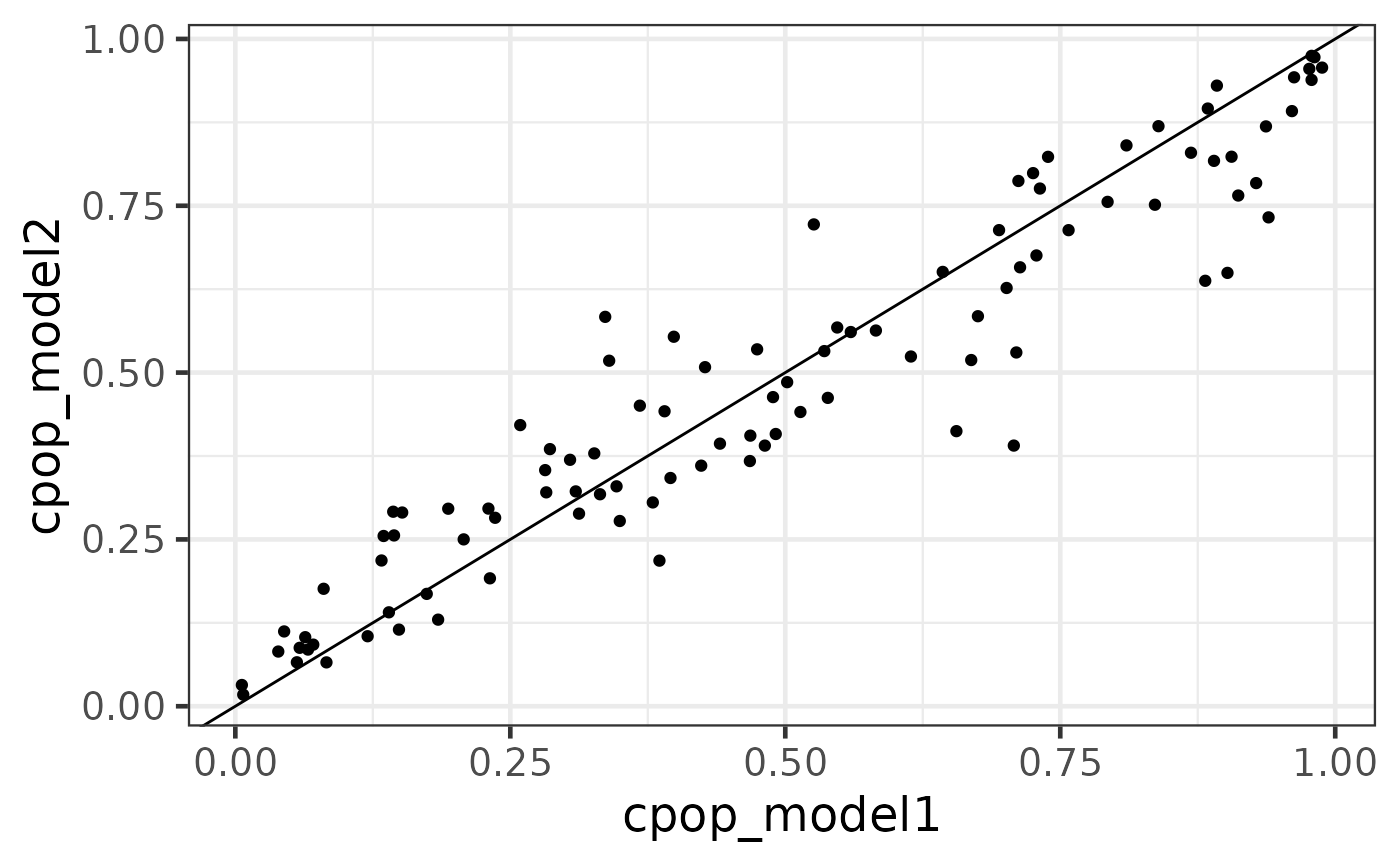
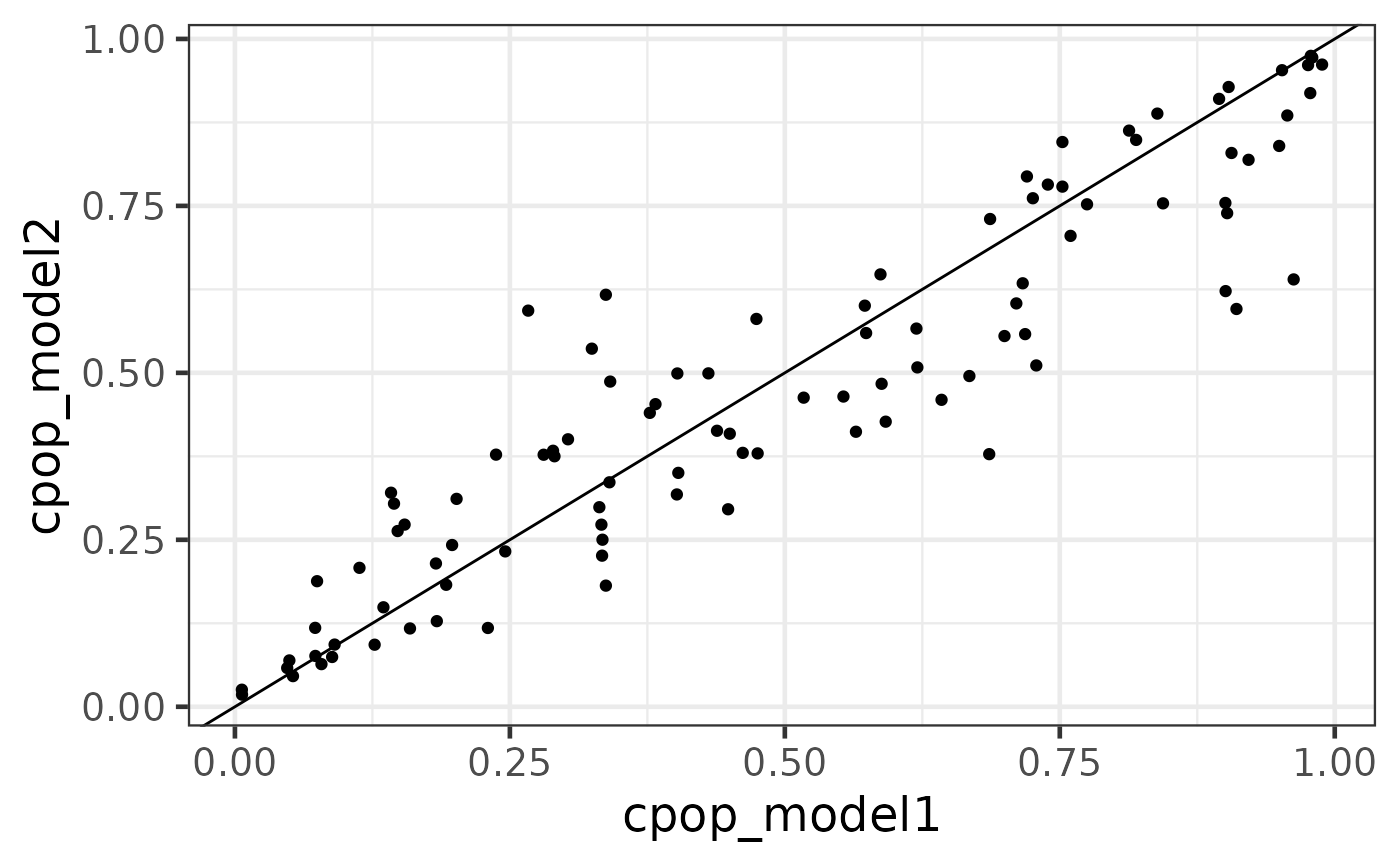
Built site for CPOP: 0.1.0@6629bfb

diff --git a/articles/CPOP.html b/articles/CPOP.html
@@ -33,7 +33,7 @@
       </button>
       <span class="navbar-brand">
         <a class="navbar-link" href="../index.html">CPOP</a>
-        <span class="version label label-default" data-toggle="tooltip" data-placement="bottom" title="">0.0.24</span>
+        <span class="version label label-default" data-toggle="tooltip" data-placement="bottom" title="">0.1.0</span>
       </span>
     </div>
 
@@ -161,21 +161,21 @@
 <pre><code><span class="co">## Fitting CPOP model using alpha = 1</span></code></pre>
 <pre><code><span class="co">## Based on previous alpha, 0 features are kept</span></code></pre>
 <pre><code><span class="co">## CPOP1 - Step 01: Number of selected features: 0 out of 190</span></code></pre>
-<pre><code><span class="co">## CPOP1 - Step 02: Number of selected features: 8 out of 190</span></code></pre>
+<pre><code><span class="co">## CPOP1 - Step 02: Number of selected features: 9 out of 190</span></code></pre>
 <pre><code><span class="co">## CPOP1 - Step 03: Number of selected features: 15 out of 190</span></code></pre>
 <pre><code><span class="co">## 10 features was reached.</span></code></pre>
 <pre><code><span class="co">## A total of 15 features were selected.</span></code></pre>
 <pre><code><span class="co">## Removing sources of collinearity gives 12 features.</span></code></pre>
 <pre><code><span class="co">## 10 features was reached.</span></code></pre>
 <pre><code><span class="co">## A total of 12 features were selected.</span></code></pre>
-<pre><code><span class="co">## CPOP2 - Sign: Step 01: Number of leftover features: 8 out of 12</span></code></pre>
+<pre><code><span class="co">## CPOP2 - Sign: Step 01: Number of leftover features: 10 out of 12</span></code></pre>
 <pre><code><span class="co">## The sign matrix between the two data:</span></code></pre>
 <pre><code><span class="co">##     </span>
 <span class="co">##      -1 0 1</span>
-<span class="co">##   -1  0 0 0</span>
+<span class="co">##   -1  0 0 1</span>
 <span class="co">##   0   0 0 0</span>
-<span class="co">##   1   4 0 0</span></code></pre>
-<pre><code><span class="co">## CPOP2 - Sign: Step 02: Number of leftover features: 8 out of 12</span>
+<span class="co">##   1   1 0 0</span></code></pre>
+<pre><code><span class="co">## CPOP2 - Sign: Step 02: Number of leftover features: 10 out of 12</span>
 <span class="co">## The sign matrix between the two data:</span></code></pre>
 <pre><code><span class="co">##     </span>
 <span class="co">##      -1 0 1</span>
@@ -198,17 +198,19 @@
 <p><img src="CPOP_files/figure-html/unnamed-chunk-5-1.png" width="700"></p>
 <pre><code><span class="co">## </span>
 <span class="co">## $data</span>
-<span class="co">## <span style="color: #949494;"># A tibble: 8 × 3</span></span>
-<span class="co">##   coef_name  coef1     coef2</span>
-<span class="co">##   <span style="color: #949494; font-style: italic;">&lt;fct&gt;</span>      <span style="color: #949494; font-style: italic;">&lt;dbl&gt;</span>     <span style="color: #949494; font-style: italic;">&lt;dbl&gt;</span></span>
-<span class="co">## <span style="color: #BCBCBC;">1</span> X01--X10  -<span style="color: #BB0000;">0.322</span> -<span style="color: #BB0000;">0.242</span>   </span>
-<span class="co">## <span style="color: #BCBCBC;">2</span> X09--X17   0.722  0.434   </span>
-<span class="co">## <span style="color: #BCBCBC;">3</span> X11--X14   0.130 -<span style="color: #BB0000;">0.000</span><span style="color: #BB0000; text-decoration: underline;">902</span></span>
-<span class="co">## <span style="color: #BCBCBC;">4</span> X12--X20   0.404  0.126   </span>
-<span class="co">## <span style="color: #BCBCBC;">5</span> X01--X07  -<span style="color: #BB0000;">0.437</span> -<span style="color: #BB0000;">0.385</span>   </span>
-<span class="co">## <span style="color: #BCBCBC;">6</span> X01--X15  -<span style="color: #BB0000;">0.158</span> -<span style="color: #BB0000;">0.303</span>   </span>
-<span class="co">## <span style="color: #BCBCBC;">7</span> X01--X17  -<span style="color: #BB0000;">0.901</span> -<span style="color: #BB0000;">0.534</span>   </span>
-<span class="co">## <span style="color: #BCBCBC;">8</span> X04--X12   0.353  0.367</span></code></pre>
+<span class="co">## <span style="color: #949494;"># A tibble: 10 × 3</span></span>
+<span class="co">##    coef_name   coef1   coef2</span>
+<span class="co">##    <span style="color: #949494; font-style: italic;">&lt;fct&gt;</span>       <span style="color: #949494; font-style: italic;">&lt;dbl&gt;</span>   <span style="color: #949494; font-style: italic;">&lt;dbl&gt;</span></span>
+<span class="co">## <span style="color: #BCBCBC;"> 1</span> X01--X10  -<span style="color: #BB0000;">0.311</span>  -<span style="color: #BB0000;">0.275</span> </span>
+<span class="co">## <span style="color: #BCBCBC;"> 2</span> X05--X06  -<span style="color: #BB0000;">0.049</span><span style="color: #BB0000; text-decoration: underline;">6</span> -<span style="color: #BB0000;">0.136</span> </span>
+<span class="co">## <span style="color: #BCBCBC;"> 3</span> X05--X09   0.155  -<span style="color: #BB0000;">0.047</span><span style="color: #BB0000; text-decoration: underline;">0</span></span>
+<span class="co">## <span style="color: #BCBCBC;"> 4</span> X09--X17   0.795   0.428 </span>
+<span class="co">## <span style="color: #BCBCBC;"> 5</span> X11--X14   0.131   0.023<span style="text-decoration: underline;">3</span></span>
+<span class="co">## <span style="color: #BCBCBC;"> 6</span> X12--X20   0.403   0.111 </span>
+<span class="co">## <span style="color: #BCBCBC;"> 7</span> X01--X07  -<span style="color: #BB0000;">0.428</span>  -<span style="color: #BB0000;">0.381</span> </span>
+<span class="co">## <span style="color: #BCBCBC;"> 8</span> X01--X15  -<span style="color: #BB0000;">0.147</span>  -<span style="color: #BB0000;">0.306</span> </span>
+<span class="co">## <span style="color: #BCBCBC;"> 9</span> X01--X17  -<span style="color: #BB0000;">0.939</span>  -<span style="color: #BB0000;">0.548</span> </span>
+<span class="co">## <span style="color: #BCBCBC;">10</span> X04--X12   0.344   0.374</span></code></pre>
 <p>We can see that most of the selected features had similar coefficients across the two data. This is exactly what CPOP is aiming to achieve: selecting features that are consistent within each datasets.</p>
 <p>However, each of the feature (e.g. <code>X01--X10</code>) actually corresponds to two of the original features in the raw data <code>X01</code> and <code>X10</code> in the data <code>x1</code> and <code>x2</code>. We can further visualise these features in the original features.</p>
 <div class="sourceCode" id="cb31"><pre class="downlit sourceCode r">
@@ -217,17 +219,19 @@
 <p><img src="CPOP_files/figure-html/unnamed-chunk-6-1.png" width="700"></p>
 <pre><code><span class="co">## </span>
 <span class="co">## $data</span>
-<span class="co">## <span style="color: #949494;"># A tibble: 8 × 7</span></span>
-<span class="co">##   from  to     coef1     coef2 coef_avg coef_abs sign_coef1</span>
-<span class="co">##   <span style="color: #949494; font-style: italic;">&lt;chr&gt;</span> <span style="color: #949494; font-style: italic;">&lt;chr&gt;</span>  <span style="color: #949494; font-style: italic;">&lt;dbl&gt;</span>     <span style="color: #949494; font-style: italic;">&lt;dbl&gt;</span>    <span style="color: #949494; font-style: italic;">&lt;dbl&gt;</span>    <span style="color: #949494; font-style: italic;">&lt;dbl&gt;</span> <span style="color: #949494; font-style: italic;">&lt;chr&gt;</span>     </span>
-<span class="co">## <span style="color: #BCBCBC;">1</span> X01   X10   -<span style="color: #BB0000;">0.322</span> -<span style="color: #BB0000;">0.242</span>     -<span style="color: #BB0000;">0.282</span>    0.282  Negative  </span>
-<span class="co">## <span style="color: #BCBCBC;">2</span> X09   X17    0.722  0.434      0.578    0.578  Positive  </span>
-<span class="co">## <span style="color: #BCBCBC;">3</span> X11   X14    0.130 -<span style="color: #BB0000;">0.000</span><span style="color: #BB0000; text-decoration: underline;">902</span>   0.064<span style="text-decoration: underline;">7</span>   0.064<span style="text-decoration: underline;">7</span> Positive  </span>
-<span class="co">## <span style="color: #BCBCBC;">4</span> X12   X20    0.404  0.126      0.265    0.265  Positive  </span>
-<span class="co">## <span style="color: #BCBCBC;">5</span> X01   X07   -<span style="color: #BB0000;">0.437</span> -<span style="color: #BB0000;">0.385</span>     -<span style="color: #BB0000;">0.411</span>    0.411  Negative  </span>
-<span class="co">## <span style="color: #BCBCBC;">6</span> X01   X15   -<span style="color: #BB0000;">0.158</span> -<span style="color: #BB0000;">0.303</span>     -<span style="color: #BB0000;">0.231</span>    0.231  Negative  </span>
-<span class="co">## <span style="color: #BCBCBC;">7</span> X01   X17   -<span style="color: #BB0000;">0.901</span> -<span style="color: #BB0000;">0.534</span>     -<span style="color: #BB0000;">0.717</span>    0.717  Negative  </span>
-<span class="co">## <span style="color: #BCBCBC;">8</span> X04   X12    0.353  0.367      0.360    0.360  Positive</span></code></pre>
+<span class="co">## <span style="color: #949494;"># A tibble: 10 × 7</span></span>
+<span class="co">##    from  to      coef1   coef2 coef_avg coef_abs sign_coef1</span>
+<span class="co">##    <span style="color: #949494; font-style: italic;">&lt;chr&gt;</span> <span style="color: #949494; font-style: italic;">&lt;chr&gt;</span>   <span style="color: #949494; font-style: italic;">&lt;dbl&gt;</span>   <span style="color: #949494; font-style: italic;">&lt;dbl&gt;</span>    <span style="color: #949494; font-style: italic;">&lt;dbl&gt;</span>    <span style="color: #949494; font-style: italic;">&lt;dbl&gt;</span> <span style="color: #949494; font-style: italic;">&lt;chr&gt;</span>     </span>
+<span class="co">## <span style="color: #BCBCBC;"> 1</span> X01   X10   -<span style="color: #BB0000;">0.311</span>  -<span style="color: #BB0000;">0.275</span>   -<span style="color: #BB0000;">0.293</span>    0.293  Negative  </span>
+<span class="co">## <span style="color: #BCBCBC;"> 2</span> X05   X06   -<span style="color: #BB0000;">0.049</span><span style="color: #BB0000; text-decoration: underline;">6</span> -<span style="color: #BB0000;">0.136</span>   -<span style="color: #BB0000;">0.092</span><span style="color: #BB0000; text-decoration: underline;">5</span>   0.092<span style="text-decoration: underline;">5</span> Negative  </span>
+<span class="co">## <span style="color: #BCBCBC;"> 3</span> X05   X09    0.155  -<span style="color: #BB0000;">0.047</span><span style="color: #BB0000; text-decoration: underline;">0</span>   0.054<span style="text-decoration: underline;">1</span>   0.054<span style="text-decoration: underline;">1</span> Positive  </span>
+<span class="co">## <span style="color: #BCBCBC;"> 4</span> X09   X17    0.795   0.428    0.611    0.611  Positive  </span>
+<span class="co">## <span style="color: #BCBCBC;"> 5</span> X11   X14    0.131   0.023<span style="text-decoration: underline;">3</span>   0.077<span style="text-decoration: underline;">1</span>   0.077<span style="text-decoration: underline;">1</span> Positive  </span>
+<span class="co">## <span style="color: #BCBCBC;"> 6</span> X12   X20    0.403   0.111    0.257    0.257  Positive  </span>
+<span class="co">## <span style="color: #BCBCBC;"> 7</span> X01   X07   -<span style="color: #BB0000;">0.428</span>  -<span style="color: #BB0000;">0.381</span>   -<span style="color: #BB0000;">0.405</span>    0.405  Negative  </span>
+<span class="co">## <span style="color: #BCBCBC;"> 8</span> X01   X15   -<span style="color: #BB0000;">0.147</span>  -<span style="color: #BB0000;">0.306</span>   -<span style="color: #BB0000;">0.227</span>    0.227  Negative  </span>
+<span class="co">## <span style="color: #BCBCBC;"> 9</span> X01   X17   -<span style="color: #BB0000;">0.939</span>  -<span style="color: #BB0000;">0.548</span>   -<span style="color: #BB0000;">0.743</span>    0.743  Negative  </span>
+<span class="co">## <span style="color: #BCBCBC;">10</span> X04   X12    0.344   0.374    0.359    0.359  Positive</span></code></pre>
 <p>Here we see that despite the features that we have selected in terms of the ratio, in actual fact, only a handful of features are useful. In particular, <code>X01</code>, <code>X09</code> and <code>X17</code> are the main contributors.</p>
 </div>
 <div class="section level3">
@@ -241,12 +245,12 @@
 <pre><code><span class="co">## <span style="color: #949494;"># A tibble: 6 × 6</span></span>
 <span class="co">##   samples cpop_model1 cpop_model2 cpop_model_avg cpop_model_avg_prob</span>
 <span class="co">##   <span style="color: #949494; font-style: italic;">&lt;chr&gt;</span>         <span style="color: #949494; font-style: italic;">&lt;dbl&gt;</span>       <span style="color: #949494; font-style: italic;">&lt;dbl&gt;</span>          <span style="color: #949494; font-style: italic;">&lt;dbl&gt;</span>               <span style="color: #949494; font-style: italic;">&lt;dbl&gt;</span></span>
-<span class="co">## <span style="color: #BCBCBC;">1</span> 1             0.465      0.096<span style="text-decoration: underline;">5</span>          0.281               0.569</span>
-<span class="co">## <span style="color: #BCBCBC;">2</span> 2            -<span style="color: #BB0000;">1.79</span>      -<span style="color: #BB0000;">0.888</span>          -<span style="color: #BB0000;">1.34</span>                0.218</span>
-<span class="co">## <span style="color: #BCBCBC;">3</span> 3             0.853      0.519           0.686               0.664</span>
-<span class="co">## <span style="color: #BCBCBC;">4</span> 4            -<span style="color: #BB0000;">0.936</span>     -<span style="color: #BB0000;">0.602</span>          -<span style="color: #BB0000;">0.769</span>               0.318</span>
-<span class="co">## <span style="color: #BCBCBC;">5</span> 5            -<span style="color: #BB0000;">0.424</span>     -<span style="color: #BB0000;">0.654</span>          -<span style="color: #BB0000;">0.539</span>               0.369</span>
-<span class="co">## <span style="color: #BCBCBC;">6</span> 6             1.00       1.24            1.12                0.754</span>
+<span class="co">## <span style="color: #BCBCBC;">1</span> 1             0.586      -<span style="color: #BB0000;">0.162</span>          0.212               0.551</span>
+<span class="co">## <span style="color: #BCBCBC;">2</span> 2            -<span style="color: #BB0000;">1.80</span>       -<span style="color: #BB0000;">0.752</span>         -<span style="color: #BB0000;">1.28</span>                0.231</span>
+<span class="co">## <span style="color: #BCBCBC;">3</span> 3             0.937       0.233          0.585               0.638</span>
+<span class="co">## <span style="color: #BCBCBC;">4</span> 4            -<span style="color: #BB0000;">0.899</span>      -<span style="color: #BB0000;">0.475</span>         -<span style="color: #BB0000;">0.687</span>               0.336</span>
+<span class="co">## <span style="color: #BCBCBC;">5</span> 5            -<span style="color: #BB0000;">0.479</span>      -<span style="color: #BB0000;">0.188</span>         -<span style="color: #BB0000;">0.334</span>               0.418</span>
+<span class="co">## <span style="color: #BCBCBC;">6</span> 6             0.945       1.35           1.15                0.757</span>
 <span class="co">## <span style="color: #949494;"># … with 1 more variable: cpop_model_avg_class &lt;chr&gt;</span></span></code></pre>
 <div class="sourceCode" id="cb36"><pre class="downlit sourceCode r">
 <code class="sourceCode R"><span class="va">predicted_plotdf</span> <span class="op">=</span> <span class="fu"><a href="../reference/predict_cpop.html">predict_cpop</a></span><span class="op">(</span><span class="va">cpop_result</span>, newx <span class="op">=</span> <span class="va">x3</span><span class="op">)</span> <span class="op"><a href="https://magrittr.tidyverse.org/reference/pipe.html" class="external-link">%&gt;%</a></span>

diff --git a/index.html b/index.html
@@ -5,14 +5,14 @@
 <meta charset="utf-8">
 <meta http-equiv="X-UA-Compatible" content="IE=edge">
 <meta name="viewport" content="width=device-width, initial-scale=1.0">
-<title>CPOP • CPOP</title>
+<title>Cross Platform Omics Prediction • CPOP</title>
 <!-- jquery --><script src="https://cdnjs.cloudflare.com/ajax/libs/jquery/3.4.1/jquery.min.js" integrity="sha256-CSXorXvZcTkaix6Yvo6HppcZGetbYMGWSFlBw8HfCJo=" crossorigin="anonymous"></script><!-- Bootstrap --><link rel="stylesheet" href="https://cdnjs.cloudflare.com/ajax/libs/twitter-bootstrap/3.4.1/css/bootstrap.min.css" integrity="sha256-bZLfwXAP04zRMK2BjiO8iu9pf4FbLqX6zitd+tIvLhE=" crossorigin="anonymous">
 <script src="https://cdnjs.cloudflare.com/ajax/libs/twitter-bootstrap/3.4.1/js/bootstrap.min.js" integrity="sha256-nuL8/2cJ5NDSSwnKD8VqreErSWHtnEP9E7AySL+1ev4=" crossorigin="anonymous"></script><!-- bootstrap-toc --><link rel="stylesheet" href="bootstrap-toc.css">
 <script src="bootstrap-toc.js"></script><!-- Font Awesome icons --><link rel="stylesheet" href="https://cdnjs.cloudflare.com/ajax/libs/font-awesome/5.12.1/css/all.min.css" integrity="sha256-mmgLkCYLUQbXn0B1SRqzHar6dCnv9oZFPEC1g1cwlkk=" crossorigin="anonymous">
 <link rel="stylesheet" href="https://cdnjs.cloudflare.com/ajax/libs/font-awesome/5.12.1/css/v4-shims.min.css" integrity="sha256-wZjR52fzng1pJHwx4aV2AO3yyTOXrcDW7jBpJtTwVxw=" crossorigin="anonymous">
 <!-- clipboard.js --><script src="https://cdnjs.cloudflare.com/ajax/libs/clipboard.js/2.0.6/clipboard.min.js" integrity="sha256-inc5kl9MA1hkeYUt+EC3BhlIgyp/2jDIyBLS6k3UxPI=" crossorigin="anonymous"></script><!-- headroom.js --><script src="https://cdnjs.cloudflare.com/ajax/libs/headroom/0.11.0/headroom.min.js" integrity="sha256-AsUX4SJE1+yuDu5+mAVzJbuYNPHj/WroHuZ8Ir/CkE0=" crossorigin="anonymous"></script><script src="https://cdnjs.cloudflare.com/ajax/libs/headroom/0.11.0/jQuery.headroom.min.js" integrity="sha256-ZX/yNShbjqsohH1k95liqY9Gd8uOiE1S4vZc+9KQ1K4=" crossorigin="anonymous"></script><!-- pkgdown --><link href="pkgdown.css" rel="stylesheet">
-<script src="pkgdown.js"></script><meta property="og:title" content="CPOP">
-<meta property="og:description" content="CPOP aims to construct CPOP methods. ">
+<script src="pkgdown.js"></script><meta property="og:title" content="Cross Platform Omics Prediction">
+<meta property="og:description" content="CPOP aims to construct a model that is suitable for cross-platform prediction for omics data. ">
 <!-- mathjax --><script src="https://cdnjs.cloudflare.com/ajax/libs/mathjax/2.7.5/MathJax.js" integrity="sha256-nvJJv9wWKEm88qvoQl9ekL2J+k/RWIsaSScxxlsrv8k=" crossorigin="anonymous"></script><script src="https://cdnjs.cloudflare.com/ajax/libs/mathjax/2.7.5/config/TeX-AMS-MML_HTMLorMML.js" integrity="sha256-84DKXVJXs0/F8OTMzX4UR909+jtl4G7SPypPavF+GfA=" crossorigin="anonymous"></script><!--[if lt IE 9]>
 <script src="https://oss.maxcdn.com/html5shiv/3.7.3/html5shiv.min.js"></script>
 <script src="https://oss.maxcdn.com/respond/1.4.2/respond.min.js"></script>
@@ -33,7 +33,7 @@
       </button>
       <span class="navbar-brand">
         <a class="navbar-link" href="index.html">CPOP</a>
-        <span class="version label label-default" data-toggle="tooltip" data-placement="bottom" title="">0.0.24</span>
+        <span class="version label label-default" data-toggle="tooltip" data-placement="bottom" title="">0.1.0</span>
       </span>
     </div>
 

diff --git a/reference/cpop_network.html b/reference/cpop_network.html
@@ -17,7 +17,7 @@
       </button>
       <span class="navbar-brand">
         <a class="navbar-link" href="../index.html">CPOP</a>
-        <span class="version label label-default" data-toggle="tooltip" data-placement="bottom" title="">0.0.24</span>
+        <span class="version label label-default" data-toggle="tooltip" data-placement="bottom" title="">0.1.0</span>
       </span>
     </div>
 
@@ -84,9 +84,9 @@ using the `ggraph` package.</p></li>
 <span class="r-in"><span class="fu">plot_lratio_network</span><span class="op">(</span><span class="va">x</span>, type <span class="op">=</span> <span class="st">"ggraph"</span><span class="op">)</span></span>
 <span class="r-plt img"><img src="cpop_network-1.png" alt="" width="700" height="433"></span>
 <span class="r-in"><span class="fu">plot_lratio_network</span><span class="op">(</span><span class="va">x</span>, type <span class="op">=</span> <span class="st">"igraph"</span><span class="op">)</span></span>
-<span class="r-out co"><span class="r-pr">#&gt;</span> IGRAPH d51a5d5 UN-- 10 9 -- </span>
+<span class="r-out co"><span class="r-pr">#&gt;</span> IGRAPH c4aafd3 UN-- 10 9 -- </span>
 <span class="r-out co"><span class="r-pr">#&gt;</span> + attr: name (v/c)</span>
-<span class="r-out co"><span class="r-pr">#&gt;</span> + edges from d51a5d5 (vertex names):</span>
+<span class="r-out co"><span class="r-pr">#&gt;</span> + edges from c4aafd3 (vertex names):</span>
 <span class="r-out co"><span class="r-pr">#&gt;</span> [1] X1 --X10 X1 --X3  X1 --X4  X1 --X8  X1 --X9  X2 --X5  X2 --X7  X2 --X6 </span>
 <span class="r-out co"><span class="r-pr">#&gt;</span> [9] X10--X8 </span>
 <span class="r-in"><span class="fu">plot_lratio_network</span><span class="op">(</span><span class="va">x</span>, type <span class="op">=</span> <span class="st">"visNetwork"</span><span class="op">)</span></span>

diff --git a/reference/additional_panels.html b/reference/additional_panels.html
@@ -20,7 +20,7 @@ panel_scatter_smallDots with h and v lines at zero"><!-- mathjax --><script src=
       </button>
       <span class="navbar-brand">
         <a class="navbar-link" href="../index.html">CPOP</a>
-        <span class="version label label-default" data-toggle="tooltip" data-placement="bottom" title="">0.0.24</span>
+        <span class="version label label-default" data-toggle="tooltip" data-placement="bottom" title="">0.1.0</span>
       </span>
     </div>
 

diff --git a/reference/cpop_internals.html b/reference/cpop_internals.html
@@ -22,7 +22,7 @@ Step 3 of the CPOP method"><!-- mathjax --><script src="https://cdnjs.cloudflare
       </button>
       <span class="navbar-brand">
         <a class="navbar-link" href="../index.html">CPOP</a>
-        <span class="version label label-default" data-toggle="tooltip" data-placement="bottom" title="">0.0.24</span>
+        <span class="version label label-default" data-toggle="tooltip" data-placement="bottom" title="">0.1.0</span>
       </span>
     </div>
 

diff --git a/reference/cpop_model.html b/reference/cpop_model.html
@@ -20,7 +20,7 @@ construct a final model used for prediction."><!-- mathjax --><script src="https
       </button>
       <span class="navbar-brand">
         <a class="navbar-link" href="../index.html">CPOP</a>
-        <span class="version label label-default" data-toggle="tooltip" data-placement="bottom" title="">0.0.24</span>
+        <span class="version label label-default" data-toggle="tooltip" data-placement="bottom" title="">0.1.0</span>
       </span>
     </div>
 

diff --git a/reference/identity_distance.html b/reference/identity_distance.html
@@ -19,7 +19,7 @@ calculation for every pairwise rows in a matrix."><!-- mathjax --><script src="h
       </button>
       <span class="navbar-brand">
         <a class="navbar-link" href="../index.html">CPOP</a>
-        <span class="version label label-default" data-toggle="tooltip" data-placement="bottom" title="">0.0.24</span>
+        <span class="version label label-default" data-toggle="tooltip" data-placement="bottom" title="">0.1.0</span>
       </span>
     </div>
 

diff --git a/reference/logit-expit.html b/reference/logit-expit.html
@@ -18,7 +18,7 @@ The expit function"><!-- mathjax --><script src="https://cdnjs.cloudflare.com/aj
       </button>
       <span class="navbar-brand">
         <a class="navbar-link" href="../index.html">CPOP</a>
-        <span class="version label label-default" data-toggle="tooltip" data-placement="bottom" title="">0.0.24</span>
+        <span class="version label label-default" data-toggle="tooltip" data-placement="bottom" title="">0.1.0</span>
       </span>
     </div>
 

diff --git a/reference/penalties.html b/reference/penalties.html
@@ -18,7 +18,7 @@ Compute t-stat absolute difference penalty"><!-- mathjax --><script src="https:/
       </button>
       <span class="navbar-brand">
         <a class="navbar-link" href="../index.html">CPOP</a>
-        <span class="version label label-default" data-toggle="tooltip" data-placement="bottom" title="">0.0.24</span>
+        <span class="version label label-default" data-toggle="tooltip" data-placement="bottom" title="">0.1.0</span>
       </span>
     </div>
 

diff --git a/articles/FAQ.html b/articles/FAQ.html
@@ -33,7 +33,7 @@
       </button>
       <span class="navbar-brand">
         <a class="navbar-link" href="../index.html">CPOP</a>
-        <span class="version label label-default" data-toggle="tooltip" data-placement="bottom" title="">0.0.24</span>
+        <span class="version label label-default" data-toggle="tooltip" data-placement="bottom" title="">0.1.0</span>
       </span>
     </div>
 

diff --git a/articles/index.html b/articles/index.html
@@ -17,7 +17,7 @@
       </button>
       <span class="navbar-brand">
         <a class="navbar-link" href="../index.html">CPOP</a>
-        <span class="version label label-default" data-toggle="tooltip" data-placement="bottom" title="">0.0.24</span>
+        <span class="version label label-default" data-toggle="tooltip" data-placement="bottom" title="">0.1.0</span>
       </span>
     </div>
 

diff --git a/reference/boxplot_tbl.html b/reference/boxplot_tbl.html
@@ -17,7 +17,7 @@
       </button>
       <span class="navbar-brand">
         <a class="navbar-link" href="../index.html">CPOP</a>
-        <span class="version label label-default" data-toggle="tooltip" data-placement="bottom" title="">0.0.24</span>
+        <span class="version label label-default" data-toggle="tooltip" data-placement="bottom" title="">0.1.0</span>
       </span>
     </div>
 
